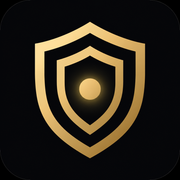
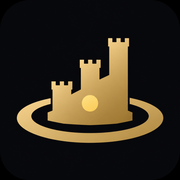
Redesign the brand mark as a keep in a moat
Replace the nested-shield glyph with a keep standing in a circular
moat. Three rising crenellated towers read as both a fortress and a
growth chart, with a disc for the protected core. The nav SVG and
favicon share the same mark.

Changed region(s): [[0.0833, 0.1111, 0.9167, 0.8889]]

diff --git a/src/components/MoatMark.tsx b/src/components/MoatMark.tsx
@@ -1,34 +1,30 @@
 import React from 'react';
 
 /**
- * InvestMoat brand mark — a fortified shield ringed by a moat around a
- * protected core. Stroke-based so it scales cleanly and inherits `currentColor`.
+ * InvestMoat brand mark — a keep standing in a circular moat, with three
+ * rising crenellated towers that read as both a fortress and a growth chart.
+ * The disc cut out of the keep is the protected core (capital). Fill-based
+ * so it stamps cleanly at small sizes and inherits `currentColor`.
  */
 export function MoatMark({
   className,
-  strokeWidth = 1.7,
 }: {
   className?: string;
+  /** Kept for call-site compatibility; the filled mark does not stroke. */
   strokeWidth?: number;
 }) {
   return (
-    <svg viewBox="0 0 24 24" fill="none" className={className} aria-hidden="true">
-      {/* Outer wall */}
+    <svg viewBox="0 0 24 24" fill="currentColor" className={className} aria-hidden="true">
+      {/* Moat — thick elliptical water ring around the keep */}
       <path
-        d="M12 2.4 L20.6 5.5 V12.3 C20.6 16.9 16.9 20 12 22 C7.1 20 3.4 16.9 3.4 12.3 V5.5 Z"
-        stroke="currentColor"
-        strokeWidth={strokeWidth}
-        strokeLinejoin="round"
+        fillRule="evenodd"
+        d="M12 13.4a9.65 3.9 0 1 0 .02 0Zm0 1.55a6.5 2.15 0 1 0 .02 0Z"
       />
-      {/* Inner keep — the gap to the outer wall reads as the moat */}
+      {/* Keep — three rising towers with merlons; circular core is a cutout */}
       <path
-        d="M12 7.1 L16.3 8.7 V12.3 C16.3 14.8 14.5 16.6 12 17.7 C9.5 16.6 7.7 14.8 7.7 12.3 V8.7 Z"
-        stroke="currentColor"
-        strokeWidth={strokeWidth * 0.82}
-        strokeLinejoin="round"
+        fillRule="evenodd"
+        d="M7.2 16.3V11.4h.5V9.15h2.25V11.4H10.4V8.15h.55V5.85h2.35V8.15H13.8V5.35h.6V3.05h2.5V5.35h.55V16.3H7.2Zm3.75-2.75a1.35 1.35 0 1 0 2.7 0 1.35 1.35 0 1 0-2.7 0Z"
       />
-      {/* Protected core asset */}
-      <circle cx="12" cy="12.2" r="1.5" fill="currentColor" />
     </svg>
   );
 }

diff --git a/docs/DESIGN-SYSTEM.md b/docs/DESIGN-SYSTEM.md
@@ -59,8 +59,8 @@ Ambient gold glows, the gold scrollbar, and gold text selection are also defined
 
 ## Brand mark & favicon
 
-- [`src/components/MoatMark.tsx`](../src/components/MoatMark.tsx) — the logo glyph: a fortified shield ringed by a moat around a protected core. Stroke-based, inherits `currentColor`, used inside the gold nav tile.
-- Favicon (same shield-in-a-moat mark, gold on a dark rounded tile): [`src/app/favicon.ico`](../src/app/favicon.ico) (16/32/48), [`src/app/icon.png`](../src/app/icon.png) (192), [`src/app/apple-icon.png`](../src/app/apple-icon.png) (180). Next.js App Router file conventions pick these up automatically.
+- [`src/components/MoatMark.tsx`](../src/components/MoatMark.tsx) — the logo glyph: a keep standing in a circular moat, with three rising crenellated towers that read as both a fortress and a growth chart, and a disc for the protected core. Fill-based, inherits `currentColor`, used inside the gold nav tile.
+- Favicon (same keep-in-a-moat mark, gold on a dark rounded tile): [`src/app/favicon.ico`](../src/app/favicon.ico) (16/32/48), [`src/app/icon.png`](../src/app/icon.png) (192), [`src/app/apple-icon.png`](../src/app/apple-icon.png) (180). Next.js App Router file conventions pick these up automatically.
 
 ## OpenGraph / social images
 
